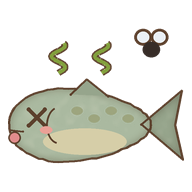
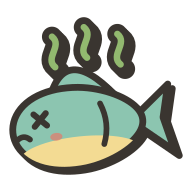
pvp gifts: redrawn 臭鱼/菜叶 art with -dark variants (theme swap like the P3 gifts), ART_V bump

diff --git a/js/pvp/gift-art.js b/js/pvp/gift-art.js
@@ -2,18 +2,20 @@
  * Hand-drawn gift art (绘图bot). Kinds without art keep their emoji.
  * assets/ stays unhashed in release builds, so the ?v= token busts caches.
  */
-const ART_V = "20261013g";
+const ART_V = "20261019f";
 export const GIFT_ART = Object.freeze({
   // dark: has a -dark variant (light-brown outline) used while the page is in the dark theme, where the picker
-  // buttons, the page under the throw and the notice stage are dark. fish/leaf have no dark art (unchanged).
+  // buttons, the page under the throw and the notice stage are dark. All six gifts have one.
+  // file: asset stem under assets/pvp/ when it differs from the kind (gift-<file>[-dark][@2x].webp|png).
   // keepGlyphBox: the picker keeps the emoji as an invisible spacer and overlays the art, so these four
-  // buttons keep exactly the box they had with the emoji (P3 layout contract). fish/leaf keep their shipped layout.
+  // buttons keep exactly the box they had with the emoji (P3 layout contract). fish/leaf keep their shipped
+  // layout (plain picture in the glyph slot); only their art (redrawn, same 96 canvas) and dark selection changed.
   flower: { name: "花花", emoji: "🌸", keepGlyphBox: true, dark: true },
   tomato: { name: "番茄", emoji: "🍅", keepGlyphBox: true, dark: true },
   pipe: { name: "烟斗", emoji: "💨", keepGlyphBox: true, dark: true },
   coffee: { name: "咖啡", emoji: "☕", keepGlyphBox: true, dark: true },
-  fish: { name: "臭鱼", emoji: "🐟" },
-  leaf: { name: "菜叶", emoji: "🥬" },
+  fish: { name: "臭鱼", emoji: "🐟", dark: true },
+  leaf: { name: "菜叶", emoji: "🥬", dark: true },
 });
 
 export function hasGiftArt(kind) {
@@ -24,8 +26,13 @@ function isDarkTheme() {
   return typeof document !== "undefined" && document.documentElement?.getAttribute("data-theme") === "dark";
 }
 
+function giftArtBase(kind, dark) {
+  const art = GIFT_ART[kind];
+  return `assets/pvp/gift-${(art && art.file) || kind}${dark ? "-dark" : ""}`;
+}
+
 function setGiftSources(picture, kind, dark) {
-  const base = `assets/pvp/gift-${kind}${dark ? "-dark" : ""}`;
+  const base = giftArtBase(kind, dark);
   const webp = picture.querySelector("source");
   const img = picture.querySelector("img");
   if (webp) webp.srcset = `${base}.webp?v=${ART_V} 1x, ${base}@2x.webp?v=${ART_V} 2x`;
@@ -54,7 +61,7 @@ export function giftArtNode(kind, { size = 48, className = "pvp-gift-img" } = {}
   const art = GIFT_ART[kind];
   if (!art) return null;
   const dark = !!art.dark && isDarkTheme();
-  const base = `assets/pvp/gift-${kind}${dark ? "-dark" : ""}`;
+  const base = giftArtBase(kind, dark);
   const picture = document.createElement("picture");
   picture.className = `${className}-wrap`;
   const webp = document.createElement("source");

diff --git a/tests/emoji-art.test.js b/tests/emoji-art.test.js
@@ -35,17 +35,19 @@ test("all referenced art files exist (1x/2x, day and dark where themed)", () => 
     }
   }
   for (const [kind, g] of Object.entries(GIFT_ART)) {
-    for (const f of [kind, ...(g.dark ? [`${kind}-dark`] : [])]) {
+    const stem = g.file || kind;
+    for (const f of [stem, ...(g.dark ? [`${stem}-dark`] : [])]) {
       for (const sfx of [".png", "@2x.png", ".webp", "@2x.webp"]) assert.ok(existsSync(`assets/pvp/gift-${f}${sfx}`), `gift ${f}${sfx}`);
     }
   }
 });
 
-test("all six gifts have art; the four new ones keep the emoji glyph box; fish/leaf unchanged", () => {
+test("all six gifts have day+dark art; the four P3 ones keep the emoji glyph box; fish/leaf keep their layout", () => {
   assert.deepEqual(Object.keys(GIFT_ART).sort(), ["coffee", "fish", "flower", "leaf", "pipe", "tomato"]);
   for (const k of ["flower", "tomato", "pipe", "coffee"]) assert.equal(GIFT_ART[k].keepGlyphBox, true);
-  assert.deepEqual(GIFT_ART.fish, { name: "臭鱼", emoji: "🐟" });
-  assert.deepEqual(GIFT_ART.leaf, { name: "菜叶", emoji: "🥬" });
+  // fish/leaf: redrawn art with -dark variants, but no keepGlyphBox (their shipped picker layout is unchanged).
+  assert.deepEqual(GIFT_ART.fish, { name: "臭鱼", emoji: "🐟", dark: true });
+  assert.deepEqual(GIFT_ART.leaf, { name: "菜叶", emoji: "🥬", dark: true });
 });
 
 test("static markup uses the slots; fallback CSS restores the emoji in the same box", () => {
